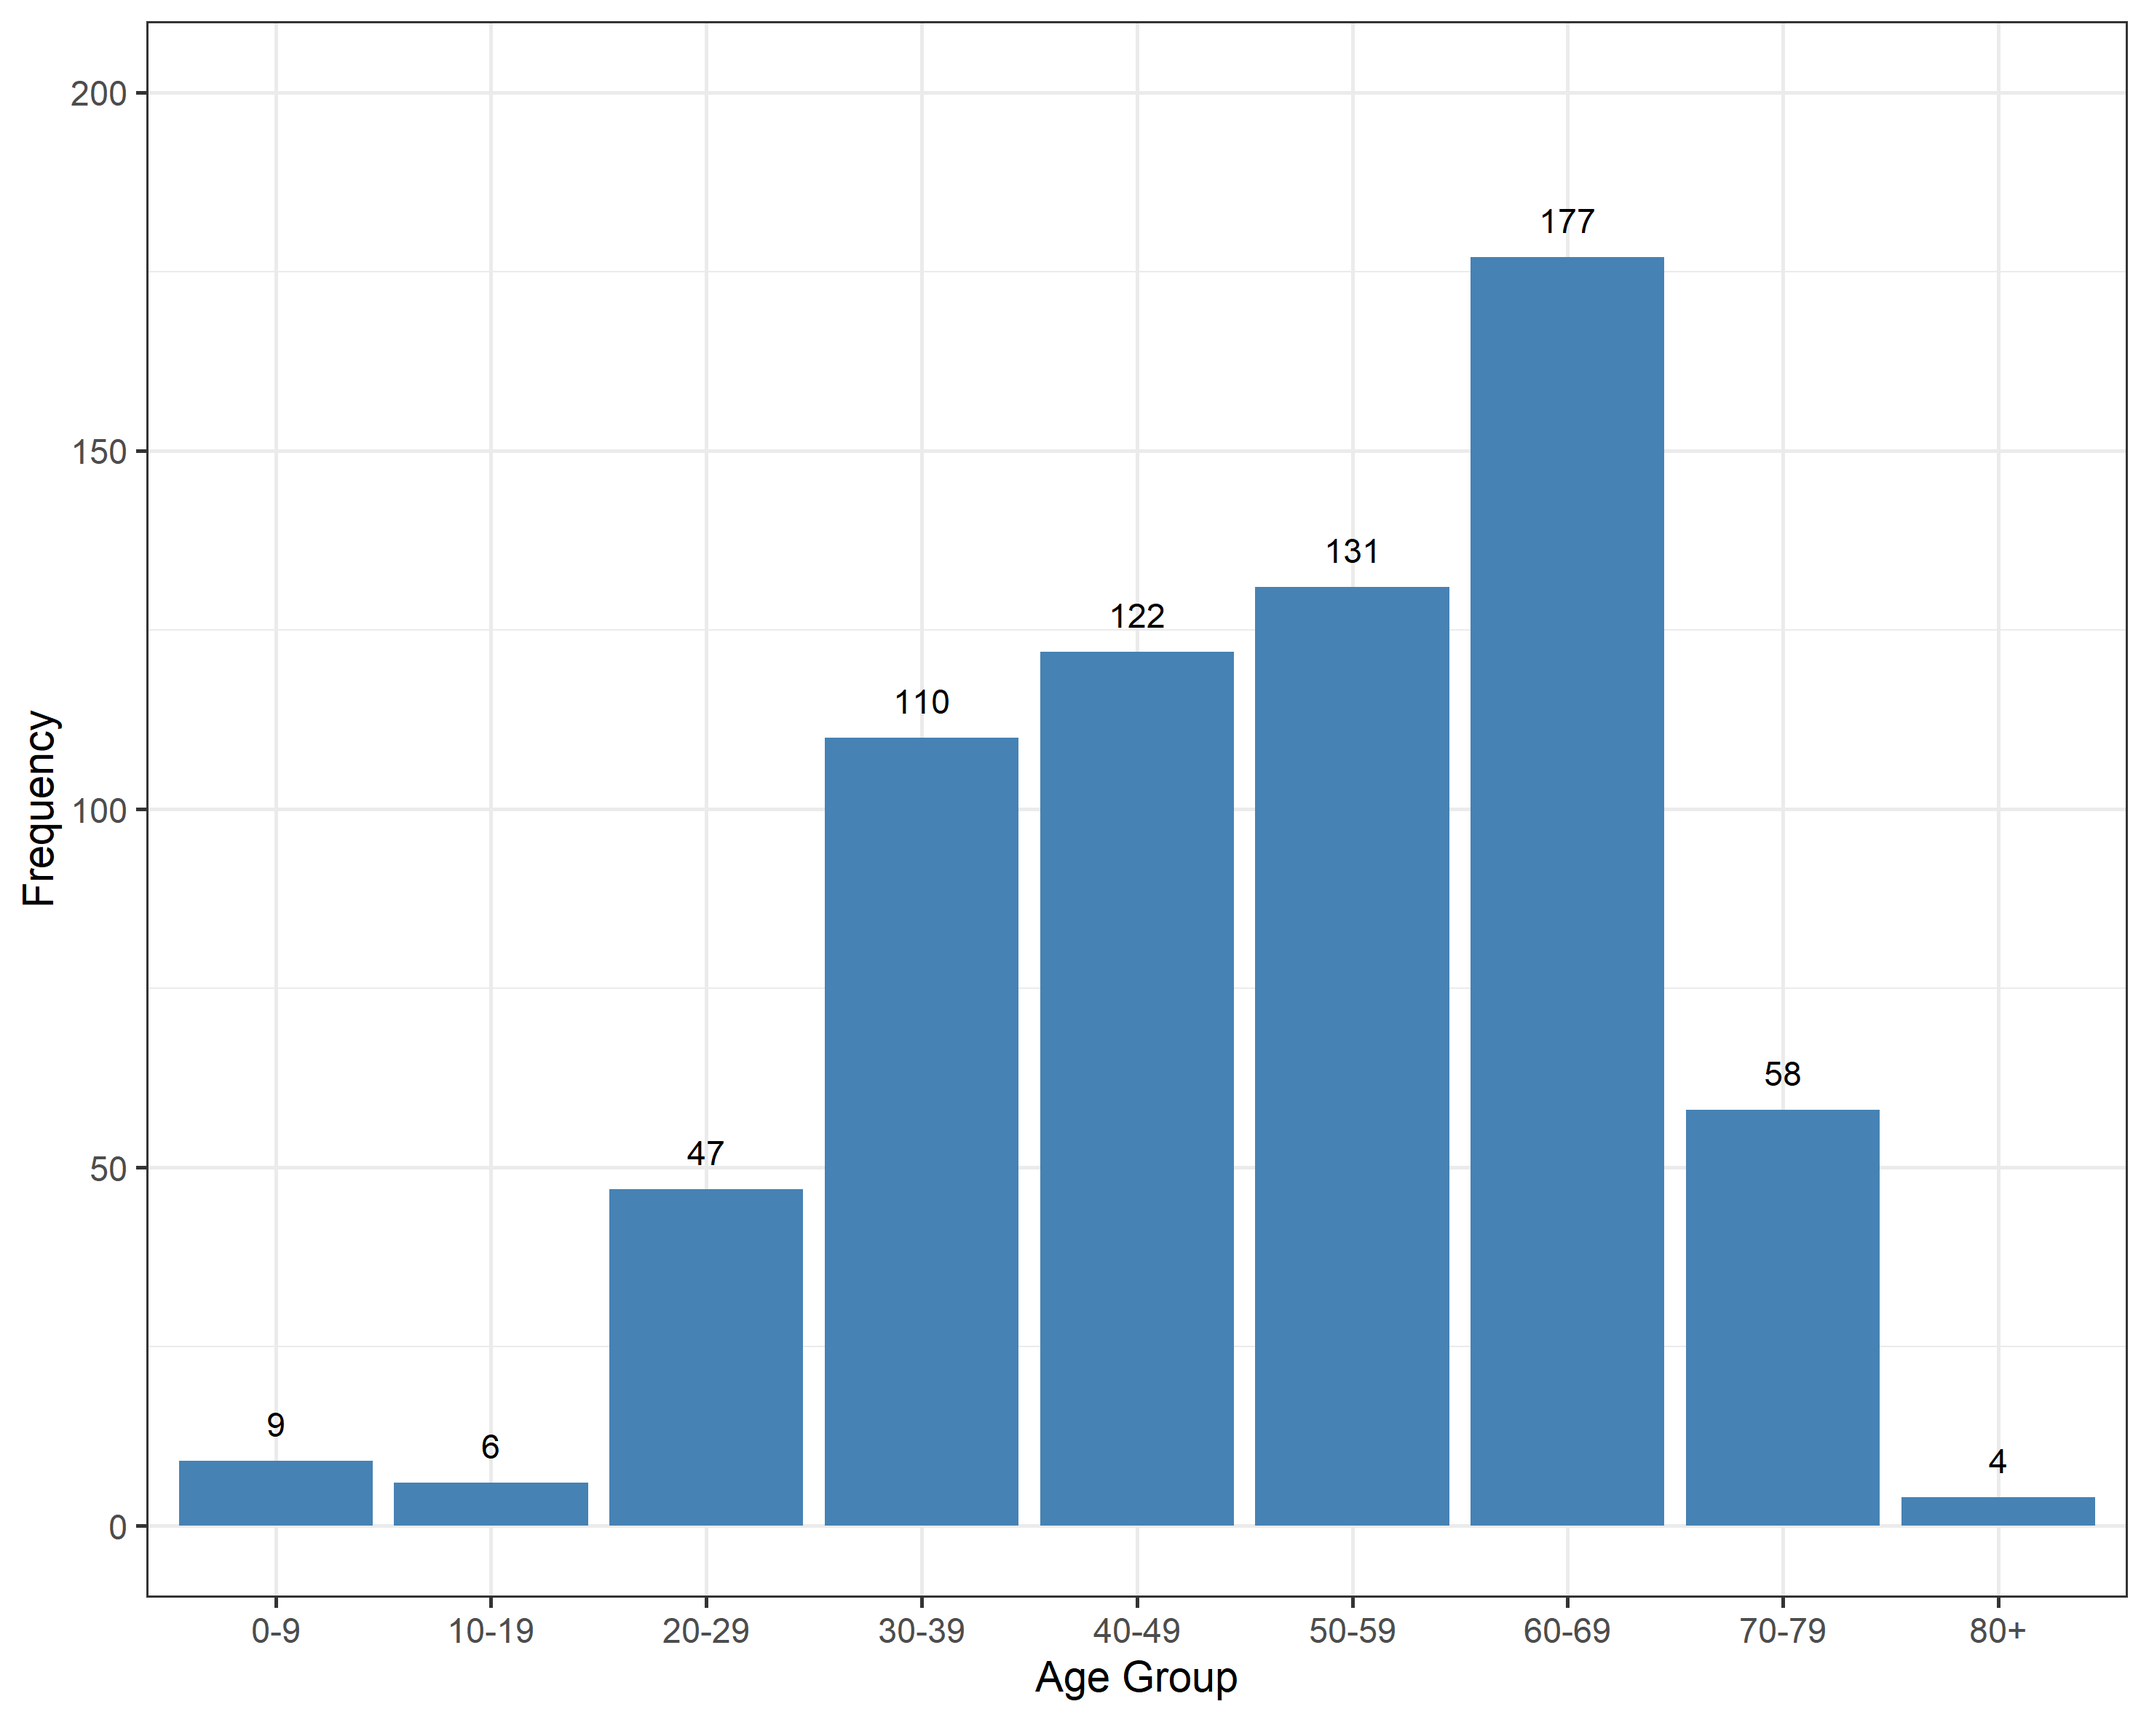
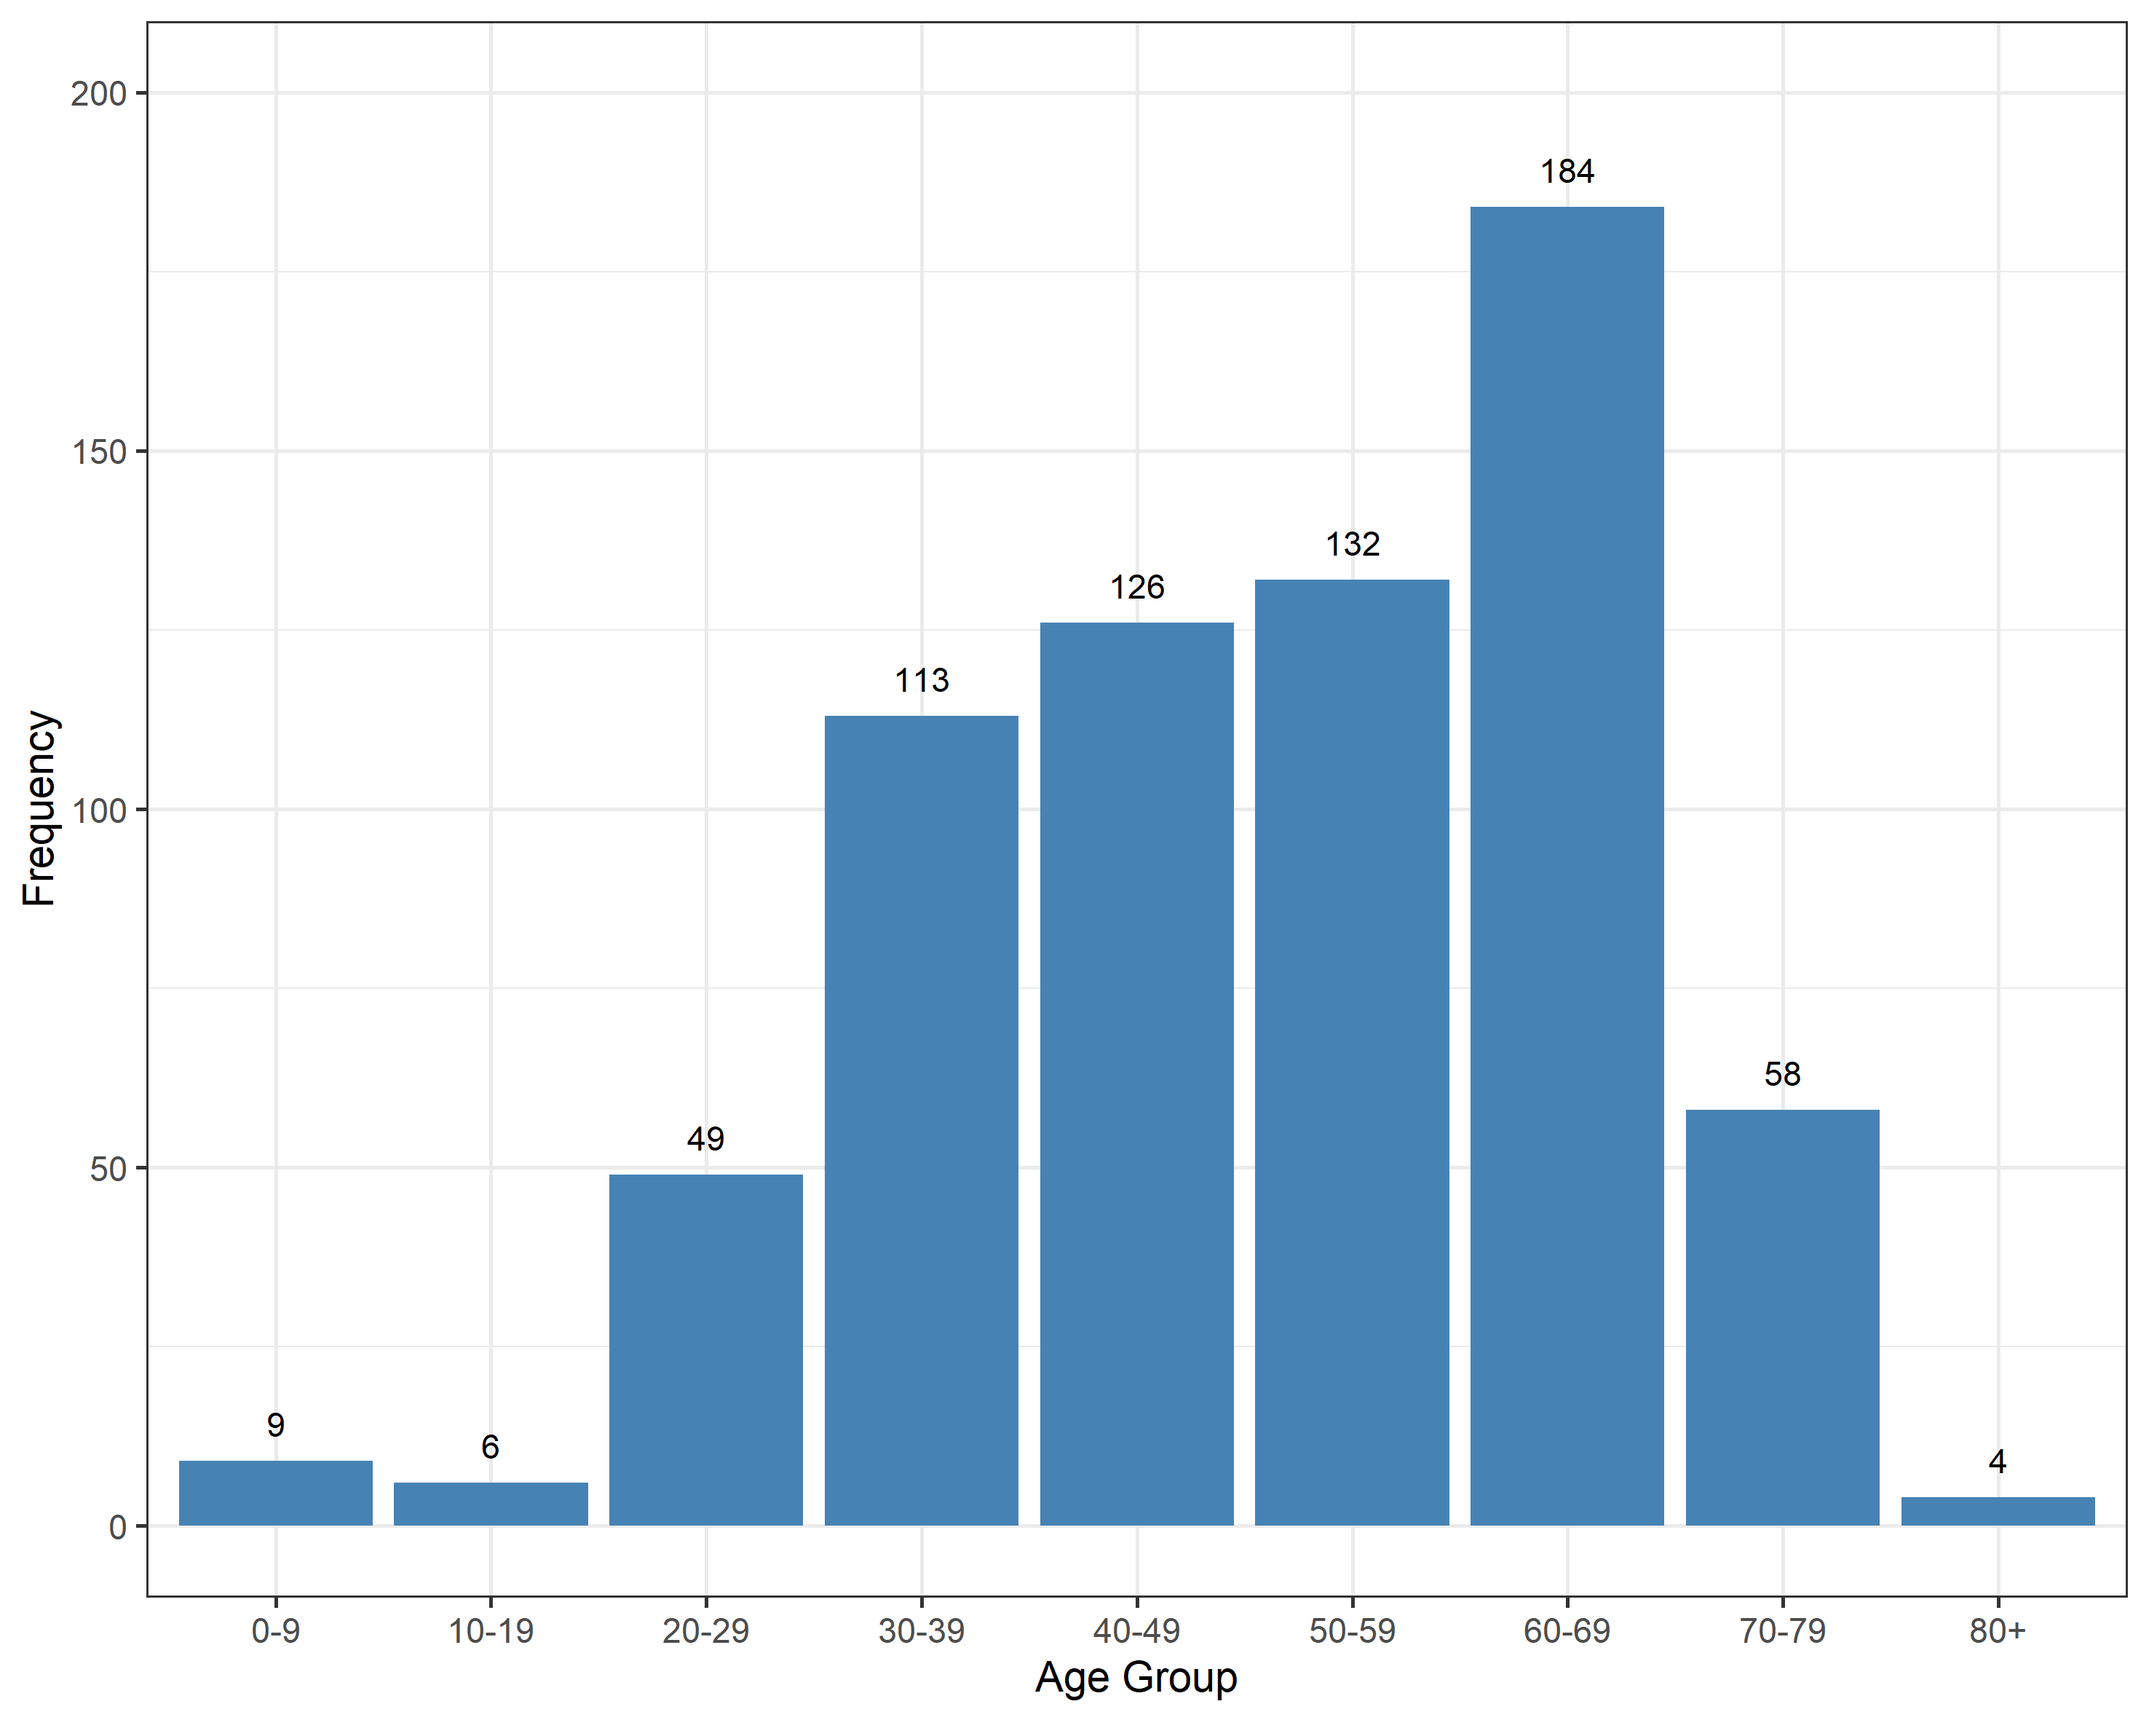
Update results 30/6

diff --git a/public/assets/locales/de-be/markdowns/results-0.md b/public/assets/locales/de-be/markdowns/results-0.md
@@ -1,4 +1,4 @@
-`Diese Seite wurde zum letzten Mal angepasst am 22.Jun.2021 09:00.`
+`Diese Seite wurde zum letzten Mal angepasst am 30.Jun.2021 10:00.`
 <br />
 
 On this page you will be able to see the latest results from the data collected by Infectieradar.be.
@@ -7,7 +7,7 @@ On this page you will be able to see the latest results from the data collected 
 
 ## Background Information
 
-On June 22, 2021 we had 665 participants. 53.2% of the participants are female, and 46.8% male. The majority of the participants (83.9%) reported having no previous Covid-19 episode. 4.8% of the participants had a positive Covid-19 test in the past. 11.3% of the participants think they had a previous Covid-19 episode.
+On June 30, 2021 we had 682 participants. 53.4% of the participants are female, and 46.6% male. The majority of the participants (83.9%) reported having no previous Covid-19 episode. 4.7% of the participants had a positive Covid-19 test in the past. 11.4% of the participants think they had a previous Covid-19 episode.
 <br />
 
 ### Age distribution
@@ -25,10 +25,11 @@ On June 22, 2021 we had 665 participants. 53.2% of the participants are female, 
 
 ## Weekly Symptoms
 
-On June 22, 2021 we had 4462 completed weekly symptom questionnaires from 617 participants. In 78.3% of the symptom questionnaires it was reported that there were *no symptoms*.
+On June 30, 2021 we had 4907 completed weekly symptom questionnaires from 634 participants. In 78.9% of the symptom questionnaires it was reported that there were *no symptoms*.
 
 ### Reported symptoms
 
 In the figure below we present how often (in percentages) a symptom was reported in questionnaires where at least one symptom was reported.
 
 <img src="assets/images/ReportedSymptoms_NL.png" width="100%">
+

diff --git a/public/assets/locales/fr-be/markdowns/results-0.md b/public/assets/locales/fr-be/markdowns/results-0.md
@@ -1,4 +1,4 @@
-`Dernière modification de cette page le 22.juin.2021 09:00.`
+`Dernière modification de cette page le 30.juin.2021 10:00.`
 <br />
 
 On this page you will be able to see the latest results from the data collected by Infectieradar.be.
@@ -7,7 +7,7 @@ On this page you will be able to see the latest results from the data collected 
 
 ## Background Information
 
-On June 22, 2021 we had 665 participants. 53.2% of the participants are female, and 46.8% male. The majority of the participants (83.9%) reported having no previous Covid-19 episode. 4.8% of the participants had a positive Covid-19 test in the past. 11.3% of the participants think they had a previous Covid-19 episode.
+On June 30, 2021 we had 682 participants. 53.4% of the participants are female, and 46.6% male. The majority of the participants (83.9%) reported having no previous Covid-19 episode. 4.7% of the participants had a positive Covid-19 test in the past. 11.4% of the participants think they had a previous Covid-19 episode.
 <br />
 
 ### Age distribution
@@ -25,10 +25,11 @@ On June 22, 2021 we had 665 participants. 53.2% of the participants are female, 
 
 ## Weekly Symptoms
 
-On June 22, 2021 we had 4462 completed weekly symptom questionnaires from 617 participants. In 78.3% of the symptom questionnaires it was reported that there were *no symptoms*.
+On June 30, 2021 we had 4907 completed weekly symptom questionnaires from 634 participants. In 78.9% of the symptom questionnaires it was reported that there were *no symptoms*.
 
 ### Reported symptoms
 
 In the figure below we present how often (in percentages) a symptom was reported in questionnaires where at least one symptom was reported.
 
 <img src="assets/images/ReportedSymptoms_NL.png" width="100%">
+

diff --git a/public/assets/locales/nl-be/markdowns/results-0.md b/public/assets/locales/nl-be/markdowns/results-0.md
@@ -1,4 +1,4 @@
-`Deze pagina is voor het laatst aangepast op 22.jun.2021 09:00.`
+`Deze pagina is voor het laatst aangepast op 30.jun.2021 10:00.`
 <br />
 
 Op deze pagina vindt u de actuele resultaten van Infectieradar.
@@ -7,7 +7,7 @@ Op deze pagina vindt u de actuele resultaten van Infectieradar.
 
 ## Achtergrond Informatie
 
-Op 22 juni 2021 hadden we 665 deelnemers. 53,2% van de deelnemers is vrouw, en 46,8% is man. Een meerderheid van deelnemers (83.9%) rapporteerden dat ze nog geen Covid-19 hebben gehad. 4.8% van de deelnemers hebben in het verleden positief getest op Covid-19. 11.3% van de deelnemers hebben een sterk vermoeden dat ze Covid-19 hebben gehad.
+Op 30 juni 2021 hadden we 682 deelnemers. 53,4% van de deelnemers is vrouw, en 46,6% is man. Een meerderheid van deelnemers (83.9%) rapporteerden dat ze nog geen Covid-19 hebben gehad. 4.7% van de deelnemers hebben in het verleden positief getest op Covid-19. 11.4% van de deelnemers hebben een sterk vermoeden dat ze Covid-19 hebben gehad.
 <br />
 
 ### Leeftijdsverdeling
@@ -25,7 +25,7 @@ Op 22 juni 2021 hadden we 665 deelnemers. 53,2% van de deelnemers is vrouw, en 4
 
 ## Wekelijkse Symptomen
 
-Op 22 juni 2021 hadden we 4462 ingevulde wekelijkse symptomen vragenlijsten van 617 deelnemers. In 78.3% van de vragenlijsten werd gerapporteerd dat er *geen symptomen* waren.
+Op 30 juni 2021 hadden we 4907 ingevulde wekelijkse symptomen vragenlijsten van 634 deelnemers. In 78.9% van de vragenlijsten werd gerapporteerd dat er *geen symptomen* waren.
 
 ### Gerapporteerde symptomen
 In de figuur hieronder geven we procentueel aan hoe vaak een bepaald symptoom is gerapporteerd in de vragenlijsten waarbij minstens één symptoom werd doorgegeven.

diff --git a/public/assets/locales/en/markdowns/results-0.md b/public/assets/locales/en/markdowns/results-0.md
@@ -1,4 +1,4 @@
-`This page has been last updated at 22.jun.2021 09:00.`
+`This page has been last updated at 30.jun.2021 10:00.`
 <br />
 
 On this page you will be able to see the latest results from the data collected by Infectieradar.be.
@@ -7,7 +7,7 @@ On this page you will be able to see the latest results from the data collected 
 
 ## Background Information
 
-On June 22, 2021 we had 665 participants. 53.2% of the participants are female, and 46.8% male. The majority of the participants (83.9%) reported having no previous Covid-19 episode. 4.8% of the participants had a positive Covid-19 test in the past. 11.3% of the participants think they had a previous Covid-19 episode.
+On June 30, 2021 we had 682 participants. 53.4% of the participants are female, and 46.6% male. The majority of the participants (83.9%) reported having no previous Covid-19 episode. 4.7% of the participants had a positive Covid-19 test in the past. 11.4% of the participants think they had a previous Covid-19 episode.
 <br />
 
 ### Age distribution
@@ -25,7 +25,7 @@ On June 22, 2021 we had 665 participants. 53.2% of the participants are female, 
 
 ## Weekly Symptoms
 
-On June 22, 2021 we had 4462 completed weekly symptom questionnaires from 617 participants. In 78.3% of the symptom questionnaires it was reported that there were *no symptoms*.
+On June 30, 2021 we had 4907 completed weekly symptom questionnaires from 634 participants. In 78.9% of the symptom questionnaires it was reported that there were *no symptoms*.
 
 ### Reported symptoms
 
